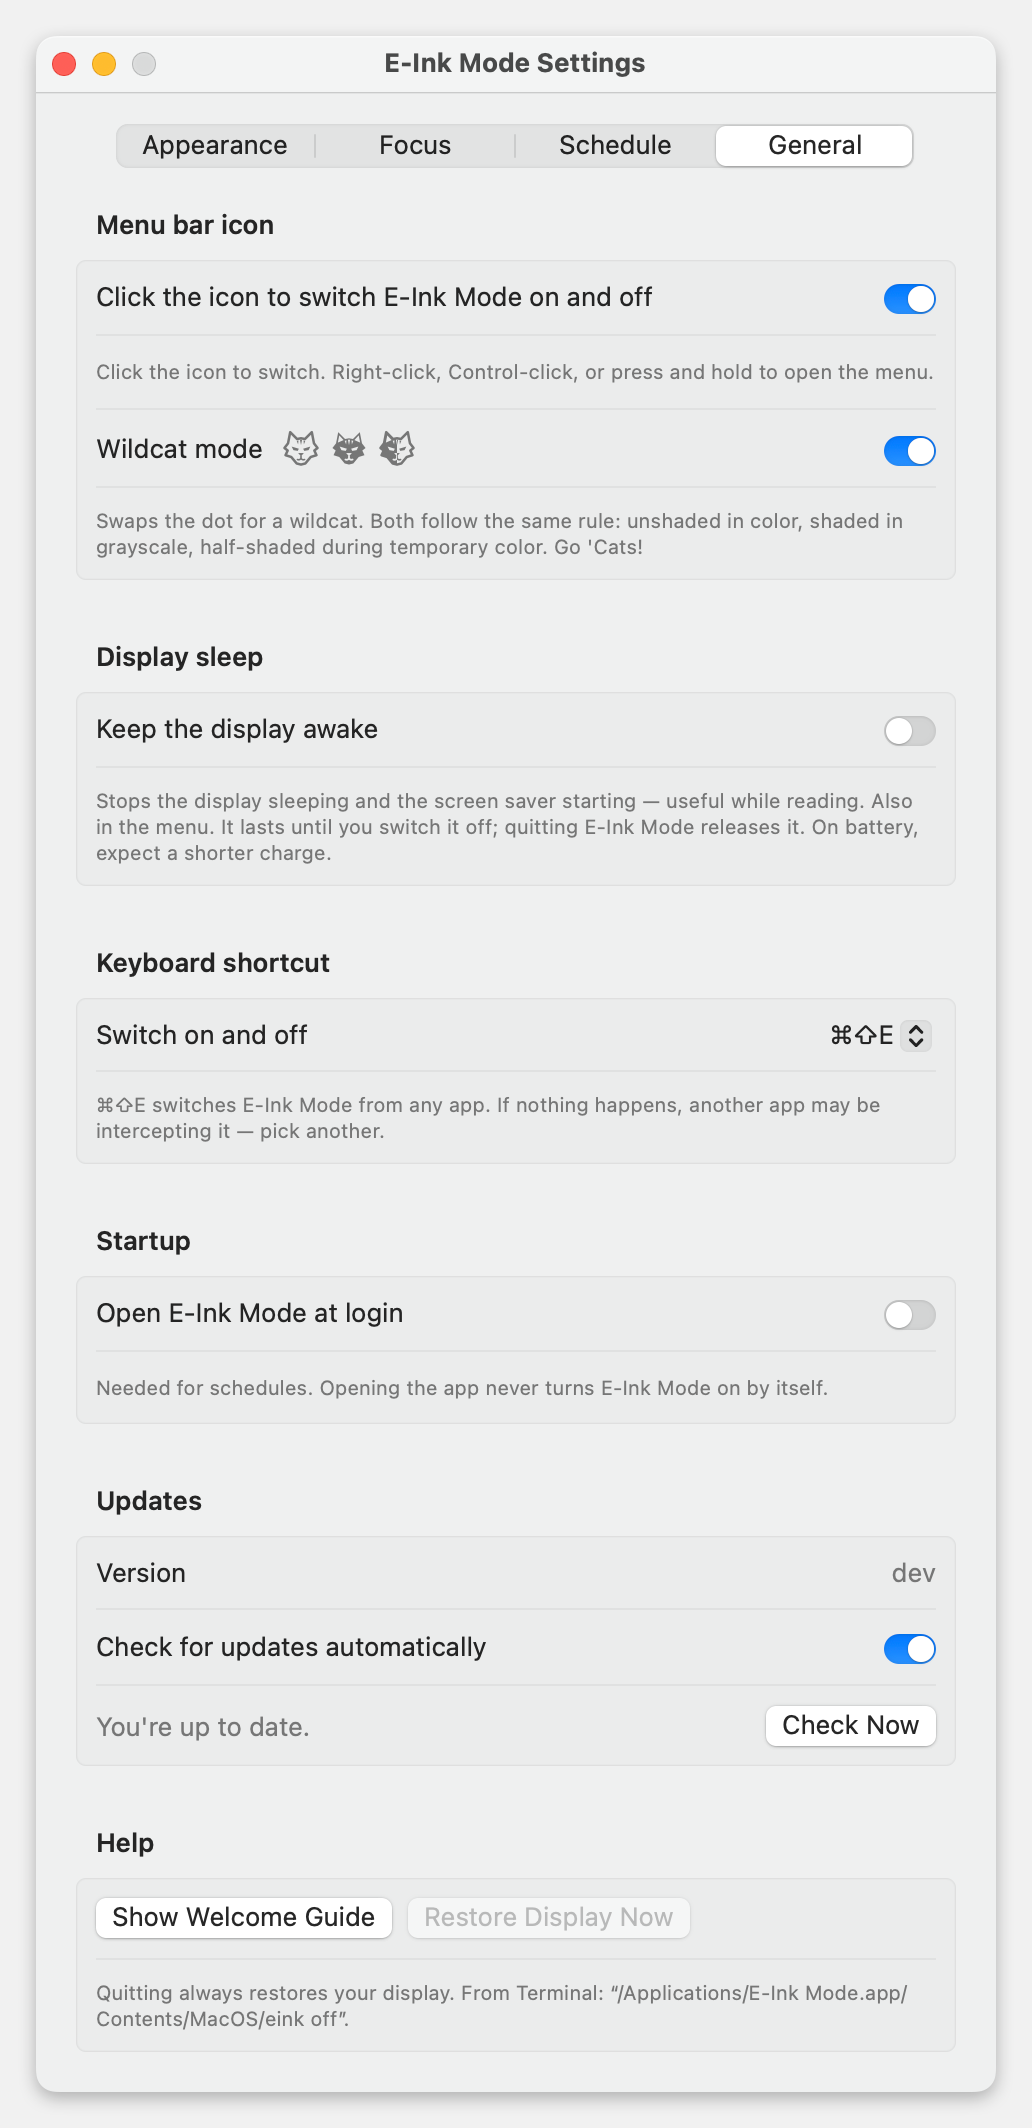
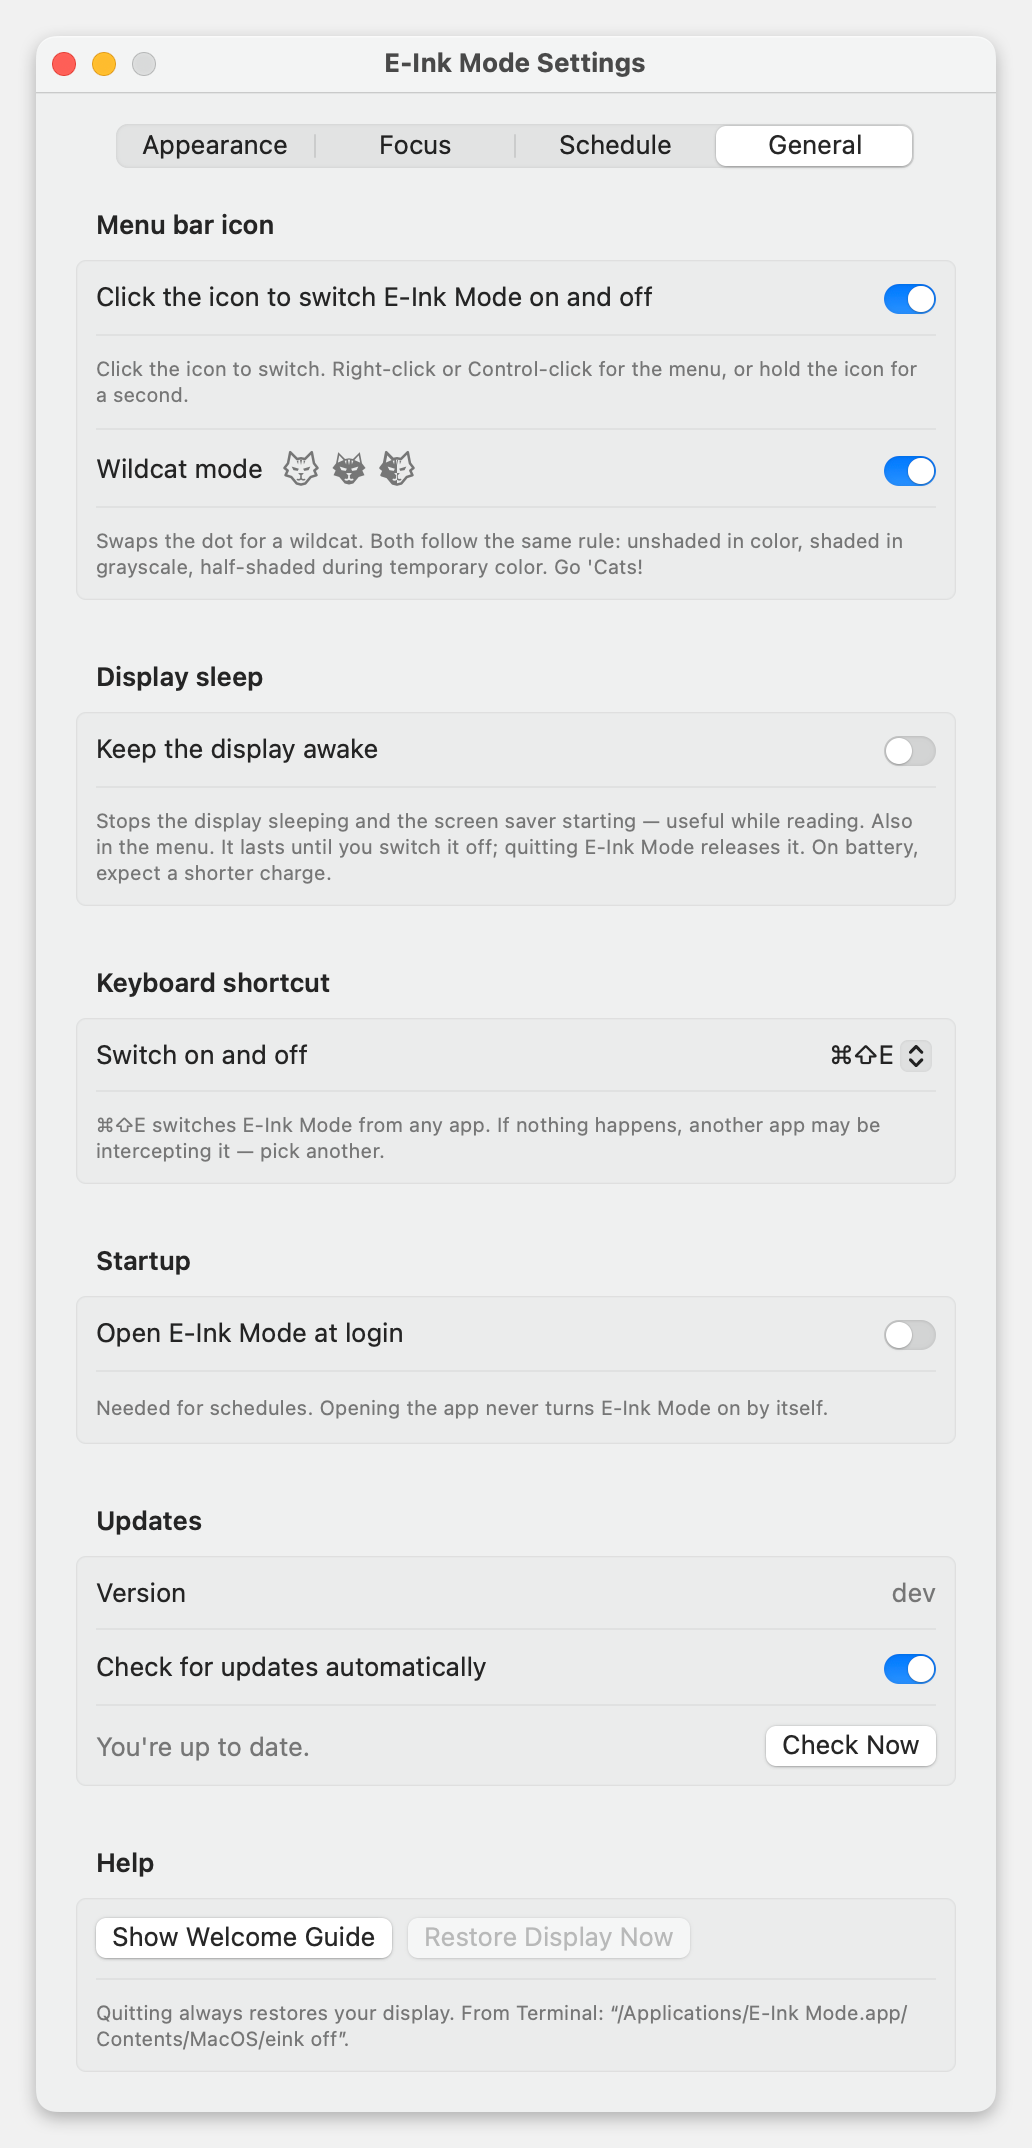
Make click-to-flip win the first click
Two changes, both aimed at a tap doing what it looks like it should:

- The icon must now be held for 0.9 s, not 0.5 s, before the menu takes
  over. A deliberate click easily passed the old threshold and lost the
  switch to the menu. Right-click and Control-click still open the menu
  at once, so menu access is no slower.
- The pointer may drift 10 pt off the icon and still count as on it.
  Trackpad taps often slide a few points; only a deliberate move away
  cancels now. The same slack applies to the long-press check, so a
  drifted hold opens the menu instead of doing nothing.

Settings hint, enable-hint popover, user guide, QA step 10, and the
General screenshot follow the new behavior.

diff --git a/Sources/EinkBar/main.swift b/Sources/EinkBar/main.swift
@@ -25,6 +25,14 @@ final class AppDelegate: NSObject, NSApplicationDelegate, NSMenuDelegate {
     private var hint: NSPopover?
     private var signalSources: [DispatchSourceSignal] = []
     private var simulated: Bool { ProcessInfo.processInfo.environment["EINK_SIMULATED"] == "1" }
+    /// How long the icon must be held before the menu opens instead of switching the mode.
+    /// Well above the system's 0.5 s long press: with click-to-flip on, a deliberate click is the
+    /// everyday action and must not lose to a slightly slow finger. Right-click and Control-click
+    /// still open the menu at once, so nobody waits for it.
+    private let longPressSeconds = 0.9
+    /// How far the pointer may drift off the icon and still count as being on it. A tap on a
+    /// trackpad often slides a few points; only a deliberate move away should cancel the switch.
+    private let pointerSlack: CGFloat = 10
 
     func applicationDidFinishLaunching(_ notification: Notification) {
         let snapshotDirectory = argument("--qa-snapshots")
@@ -51,7 +59,7 @@ final class AppDelegate: NSObject, NSApplicationDelegate, NSMenuDelegate {
         model.changed = { [weak self] in
             guard let self else { return }
             self.refreshIcon()
-            if self.model.clickToFlip && !wasFlipping { self.showHint("Click the icon to switch E-Ink Mode.\nRight-click or hold for the menu.") }
+            if self.model.clickToFlip && !wasFlipping { self.showHint("Click the icon to switch E-Ink Mode.\nRight-click, or hold it for a second, for the menu.") }
             wasFlipping = self.model.clickToFlip
             if !self.launchHandled, self.model.status != nil { self.launchHandled = true; self.lastFocus = self.model.focus; self.handleLaunch() }
             else { self.announceFocusChanges() }
@@ -121,16 +129,16 @@ final class AppDelegate: NSObject, NSApplicationDelegate, NSMenuDelegate {
         case .leftMouseDown:
             pressTimer?.invalidate(); handledPress = false
             if event.modifierFlags.contains(.control) || !model.clickToFlip { handledPress = true; showMenu(); return }
-            let timer = Timer(timeInterval: 0.5, repeats: false) { [weak self] _ in
+            let timer = Timer(timeInterval: longPressSeconds, repeats: false) { [weak self] _ in
                 guard let self else { return }
                 self.handledPress = true
-                if self.pointerIsOverButton { self.showMenu() }
+                if self.pointerIsOverButton() { self.showMenu() }
             }
             pressTimer = timer
             RunLoop.main.add(timer, forMode: .common) // status buttons track the mouse in a separate run-loop mode
         case .leftMouseUp:
             pressTimer?.invalidate(); pressTimer = nil
-            guard !handledPress, pointerIsOverButton else { return }
+            guard !handledPress, pointerIsOverButton() else { return }
             if model.needsRecovery || model.status == nil || model.error != nil { showMenu() } else { model.toggle() }
         case .rightMouseUp:
             pressTimer?.invalidate(); pressTimer = nil; handledPress = true
@@ -139,10 +147,10 @@ final class AppDelegate: NSObject, NSApplicationDelegate, NSMenuDelegate {
             showMenu() // keyboard and accessibility activation
         }
     }
-    private var pointerIsOverButton: Bool {
+    private func pointerIsOverButton() -> Bool {
         guard let button = item?.button, let window = button.window else { return false }
         let point = window.convertPoint(fromScreen: NSEvent.mouseLocation)
-        return button.bounds.contains(button.convert(point, from: nil))
+        return button.bounds.insetBy(dx: -pointerSlack, dy: -pointerSlack).contains(button.convert(point, from: nil))
     }
     @objc func showMenu() {
         guard let item else { return }

diff --git a/Sources/EinkBar/SettingsView.swift b/Sources/EinkBar/SettingsView.swift
@@ -192,7 +192,7 @@ struct GeneralSettings: View {
         Form {
             Section("Menu bar icon") {
                 Toggle("Click the icon to switch E-Ink Mode on and off", isOn: $model.clickToFlip)
-                Hint(model.clickToFlip ? "Click the icon to switch. Right-click, Control-click, or press and hold to open the menu."
+                Hint(model.clickToFlip ? "Click the icon to switch. Right-click or Control-click for the menu, or hold the icon for a second."
                                        : "Click the icon to open the menu.")
                 Toggle(isOn: $model.wildcatMode) {
                     HStack(spacing: 10) {

diff --git a/CHANGELOG.md b/CHANGELOG.md
@@ -5,6 +5,8 @@
 - **Keep Display Awake** in the menu (and **Settings → General → Display sleep**): while it's checked, the display won't sleep and the screen saver won't start, whether or not E-Ink Mode is on. Useful for reading a long page without touching the keyboard.
 - It lasts until you switch it off and is remembered for the next launch. macOS ties the hold to the running app, so quitting, logging out, or a crash releases it — nothing is left behind. Closing the lid still sleeps the Mac.
 
+- **Click-to-flip is harder to miss:** the icon now has to be held for about a second before the menu takes over, so a slow, deliberate click still switches the mode. Right-click and Control-click open the menu immediately, as before. A tap that slides a few points off the icon still counts, so trackpad taps land more often.
+
 ## 0.10.0-beta.2 (Icon parity)
 
 - **One rule for the menu bar icon:** unshaded while your screen is in color (off), shaded while it's grayscale (on or focusing), and half-shaded during temporary color (a color peek or a focus break). The standard dot is now ○ / ● / ◐, and Wildcat mode matches it. Focus sessions no longer swap in timer or cup symbols; the countdown beside the icon shows a round is running.

diff --git a/docs/QA.md b/docs/QA.md
@@ -41,7 +41,7 @@ Grayscale must be checked **with your eyes**. API readback doesn't prove pixels 
 ### Everyday controls and temporary color
 8. The menu order matches the design: status, switch, color, schedule, customize, settings, then quit.
 9. **Color for 5 Minutes**: the countdown ticks live in the open menu, dimming and Dock stay, **Resume grayscale** works early, and expiry returns grayscale within about a second. Sleep past the expiry and wake: it's grayscale.
-10. Click-to-flip: a quick click toggles; long press, right-click, and Control-click open the menu; dragging off does nothing. The hint appears when you enable it.
+10. Click-to-flip: a quick click toggles, including a slow, deliberate one — the menu only takes over after holding for about a second. Right-click and Control-click open the menu at once. A tap that slides a few points still switches; dragging well away from the icon does nothing. The hint appears when you enable it.
 11. The shortcut switches from other apps. Choose each preset, then **None**. A conflicting shortcut shows the *already taken* message.
 
 ### Keep display awake

diff --git a/docs/USER-GUIDE.md b/docs/USER-GUIDE.md
@@ -71,7 +71,7 @@ The icon's shading tells you what your screen is doing. The same rule applies to
 
 During a focus round, a countdown (for example **● 18:30**) sits next to the icon; you can hide it in **Settings → Focus**. When something needs your attention, a **warning icon** replaces the dot or wildcat until you deal with it.
 
-**Prefer one click?** Turn on *Click the icon to switch* (in the welcome guide or **Settings → General**). A quick click then toggles E-Ink Mode, and **right-click**, **Control-click**, or **press and hold** opens the menu. A reminder appears at the bottom of the menu.
+**Prefer one click?** Turn on *Click the icon to switch* (in the welcome guide or **Settings → General**). A click then toggles E-Ink Mode — take as long over it as you like, since the menu only opens if you hold the icon for about a second. **Right-click** and **Control-click** open the menu straight away. A reminder appears at the bottom of the menu.
 
 ## Focus sessions and daily stats
 
